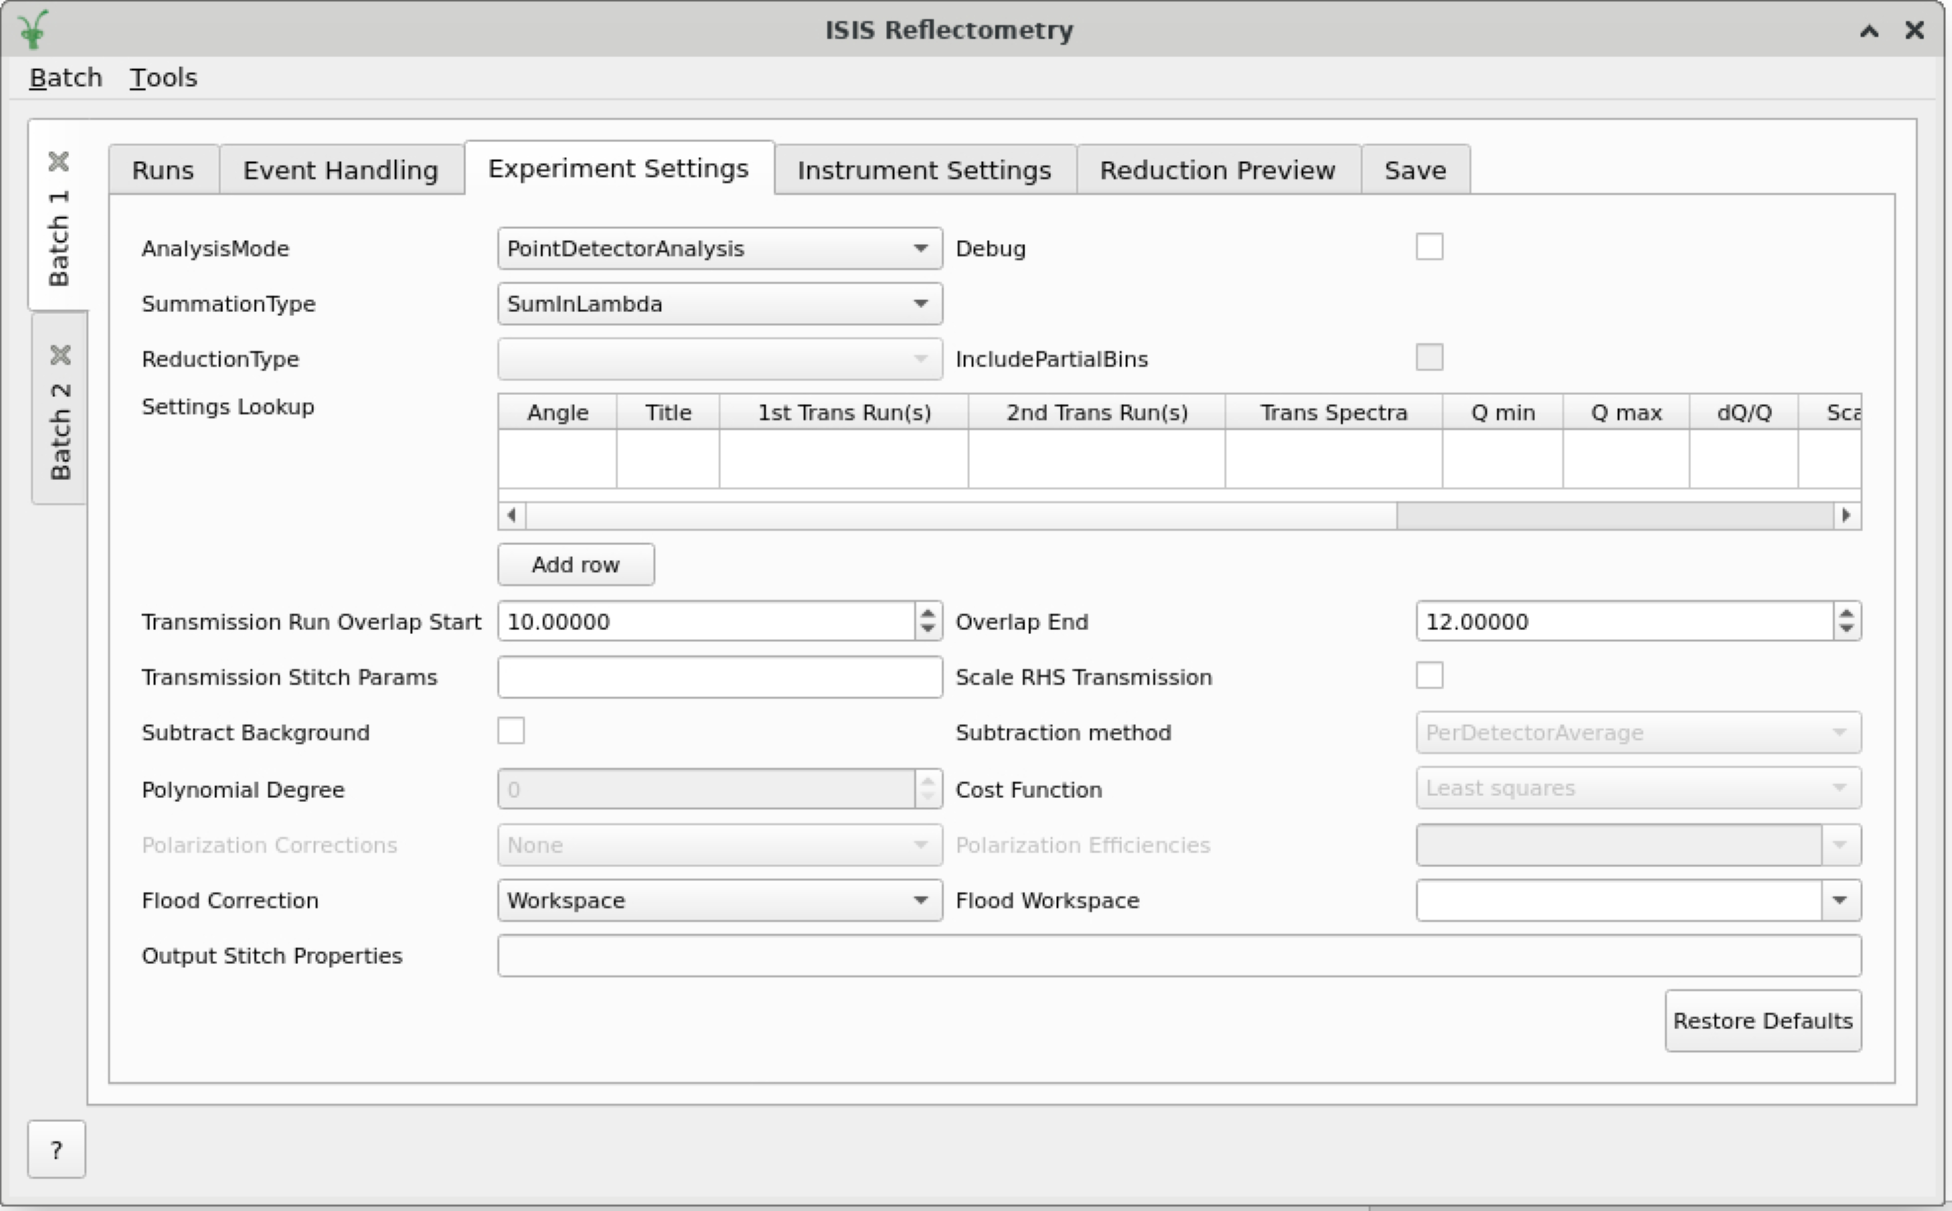
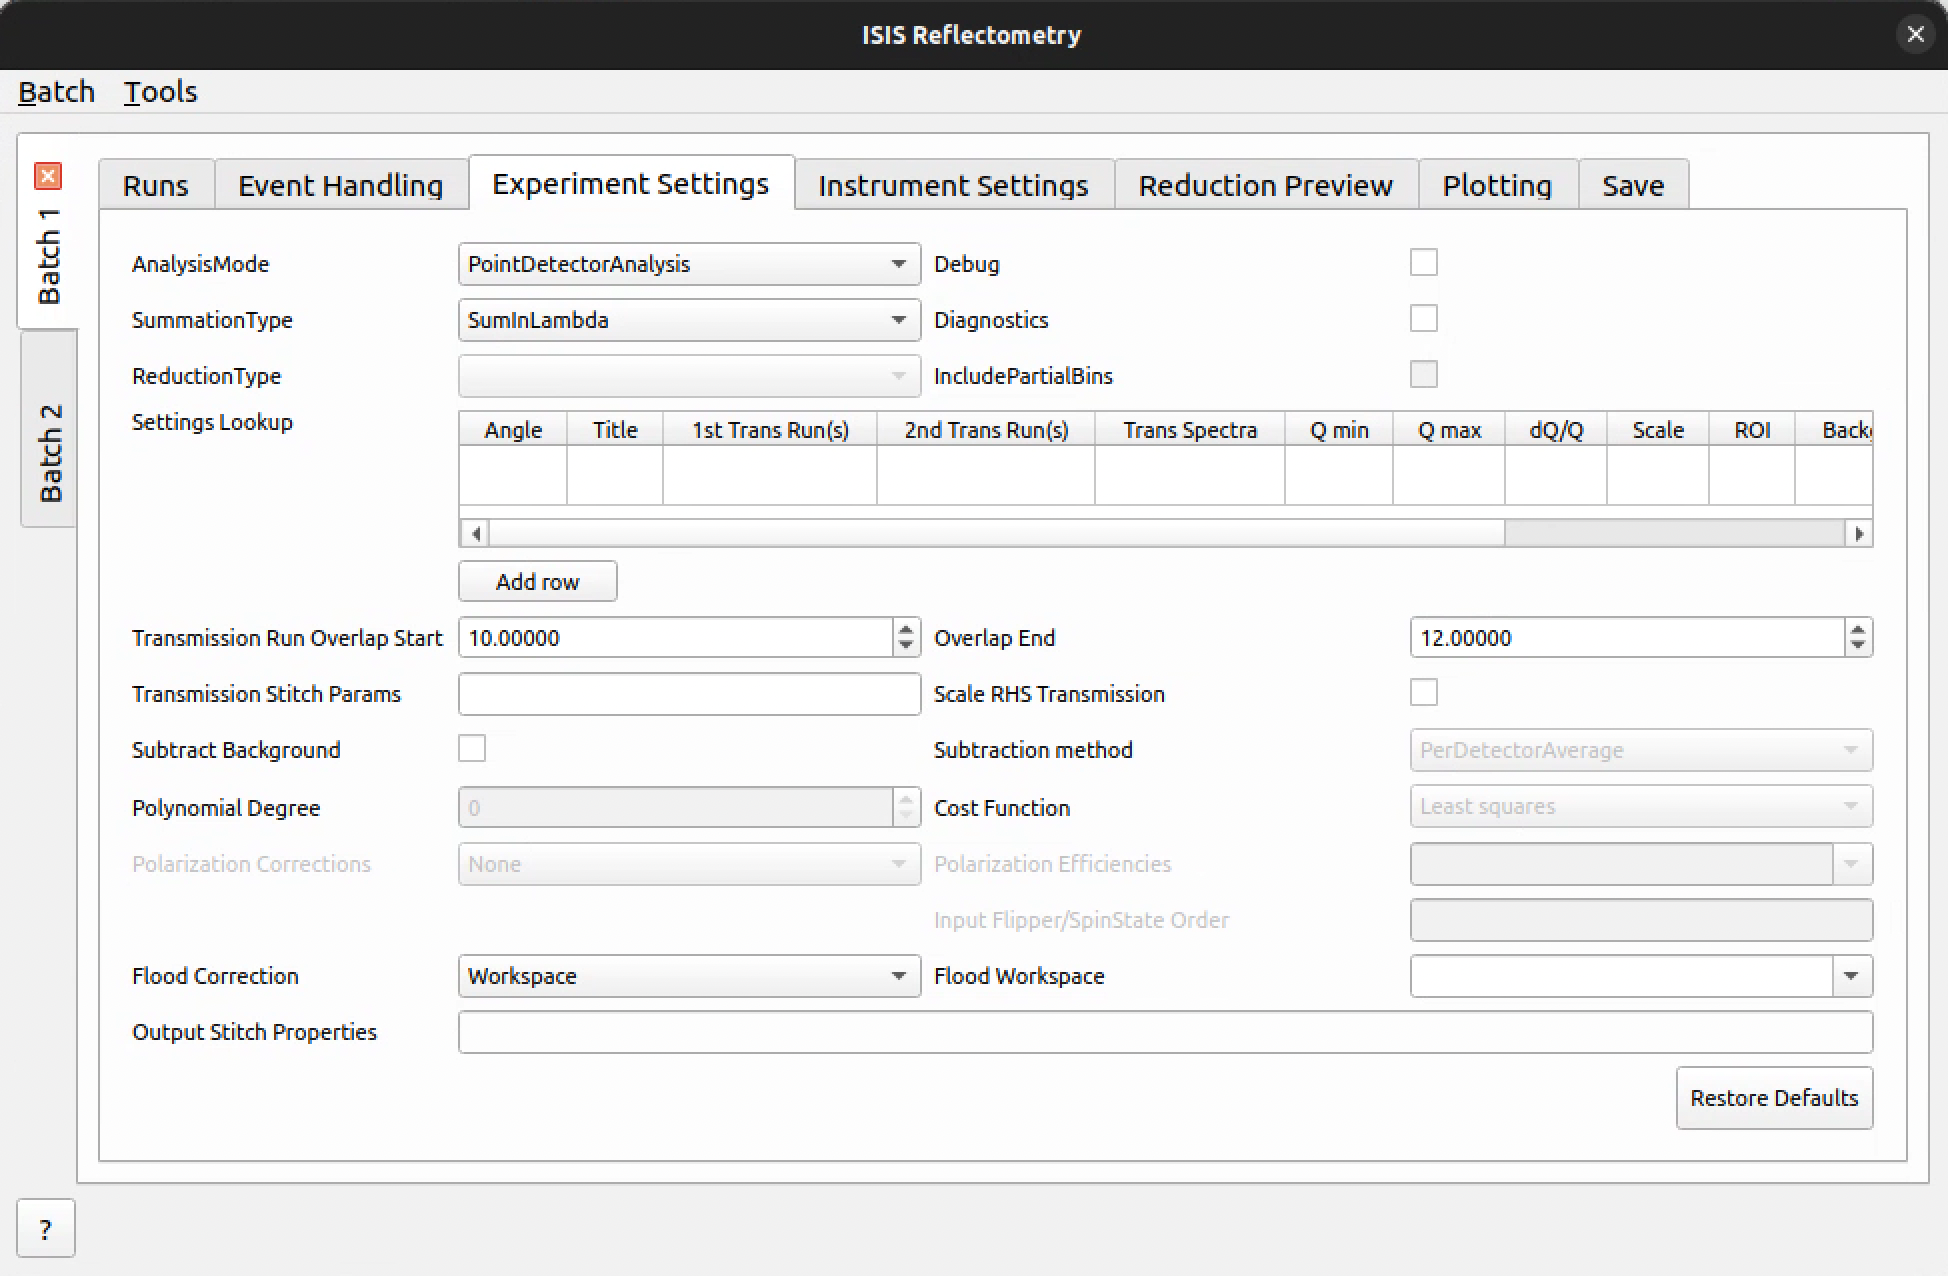
Update Reflectometry Manual Testing Instructions (#42356)

Changed region(s): [[0.0, 0.0, 1.0, 1.0]]

diff --git a/dev-docs/source/Testing/ReflectometryGUI/ReflectometryGUITests.rst b/dev-docs/source/Testing/ReflectometryGUI/ReflectometryGUITests.rst
@@ -97,16 +97,51 @@ with ``CRISP``, ``POLREF`` or ``OFFSPEC``.
 #. Back on the ``Experiment Settings`` tab, the ``Polarisation Corrections`` combo box should now be enabled and the
    ``Polarization Efficiencies`` combo box should be disabled.
 #. Select ``Parameter File`` from the ``Polarisation Corrections`` combo box. The ``Polarization Efficiencies`` combo
-   box should still be disabled.
-#. Switch to ``Workspace`` from the ``Polarisation Corrections`` combo box. The ``Fredrikze Input Spin State Order`` and
-   ``Polarization Efficiencies`` combo boxes should become enabled. The latter should show a list of all loaded
-   workspaces.
+   box should still be disabled. The ``Input Flipper/SpinState Order`` combo box should be enabled.
+#. Switch to ``Workspace`` from the ``Polarisation Corrections`` combo box. The ``Polarization Efficiencies`` combo box
+   should become enabled and show a list of all loaded workspaces.
 #. Switch to ``FilePath`` from the ``Polarisation Corrections`` combo box. ``Polarization Efficiencies`` should now
    appear as a line edit. It should appear red for invalid paths and white for valid paths on your system.
 #. Switch back to the ``ParameterFile`` setting from the ``Polarisation Corrections`` combo box.
 #. Back on the ``Runs`` tab, delete all rows in the table (this can be done by pressing ``Ctrl-A`` and then ``Delete``).
 #. Note that this will leave an empty row. In that row enter run number ``44956`` and angle ``0.4``.
 #. Check you can process the row and it turns green.
+
+Plotting Tab
+------------
+
+#. Using the output from the previous test, navigate to the ``Plotting`` tab.
+#. Select the ``IvsQ_binned_44956_1`` item and check that only ``Plot`` and ``Plot tiled vertically`` are enabled.
+#. Select the ``IvsQ_binned_44956`` item and check that only ``Add to existing plot`` is disabled.
+#. Click ``Plot``. It should produce four plots, one for each of the workspaces in the ``WorkspaceGroup``.
+
+   #. Click ``Plot over``: One plot with four lines.
+   #. Click ``Plot tiled``: One window with four plots on it.
+   #. Check ``Plot tiled vertically`` and click ``Plot tiled`` again: Single window with four plots, but in a vertical order.
+
+#. With some of the plots left open, make sure that the ``Add to existing plot`` checkbox is enabled while they exist and is
+   disabled once they are all closed.
+#. For the next three tests, ensure that a group item is selected.
+#. Change the ``Plot output type`` to ``Detector Map``:
+
+   - ``Plot over`` is disabled.
+   - All group and workspace items are enabled.
+   - X and Y axis controls are made visible.
+
+#. Change the ``Plot output type`` to ``Spin Asymmetry``:
+
+   - Only the binned group is enabled.
+   - Only the ``Plot`` button is enabled.
+
+#. Change the ``Plot output type`` to ``Alignment``:
+
+   - All three plot buttons are enabled.
+   - All group and workspace items are enabled.
+   - An X axis combobox is visible.
+
+.. HINT::
+   This is a tab with a lot of permutations of its various settings and so would benefit from a small amount of time
+   spent trying to break it beyond the instructions given here.
 
 Search by experiment
 --------------------
@@ -177,7 +212,7 @@ Save tab
 #. Select a workspace in the list that starts with ``IvsQ``.
 #. Type a valid path into the Save path textbox.
 #. Type something in the prefix field you'd like to use to identify the file. *The files are saved in the form [prefix][workspace][ext]*.
-#. In the File Format section, select ``Custom format (*.dat)``. Check that option ``Additional columns (includes Q resolution)`` is ticked but disabled, as it is not applicable.
+#. In the File Format section, select ``Custom format (*.dat)``. Check that option ``Additional columns`` is ticked but disabled, as it is not applicable.
 #. Untick ``Header`` and ``Q resolution`` and set the separator to ``Comma``.
 #. Click ``Save`` and open the file that should have been saved to the save directory you specified. It should contain 3 columns of numbers, separated by commas.
 #. Tick ``Q resolution`` and re-save. It should now contain 4 columns of numbers.
@@ -188,9 +223,9 @@ Save tab
    - Amongst other things this text should contain the logs you selected, e.g. ``nperiods : 1`` and ``run_end : 2011-10-21T13:32:03``.
 
 #. Try changing the separator to spaces or tabs and check that the 3 or 4 columns of numbers are separated using that separator.
-#. Change the dropdown to ``ORSO Ascii (*.ort)``. The ``Header`` checkbox, separators and parameter settings are not applicable so they should be greyed out. The ``Additional columns (includes Q resolution)`` checkbox should be enabled.
+#. Change the dropdown to ``ORSO Ascii (*.ort)``. The ``Header`` checkbox, separators and parameter settings are not applicable so they should be greyed out. The ``Additional columns`` checkbox should be enabled.
 #. Select a single ``IvsQ_binned`` workspace from the left list, e.g. ``IvsQ_binned_11934``, and click Save. Open the ``.ort`` file that should have been created in your specified save directory. You should get a header at the top starting with ``ORSO reflectivity data file``. There should be 8 columns of numbers with headings ``Qz``, ``R``, ``sR``, ``sQz``, ``lambda``, ``slambda``, ``incident theta`` and ``sincident theta``.
-#. Untick ``Additional columns (includes Q resolution)`` and re-save (the ``Q resolution`` checkbox should still be selected from the earlier steps). The file should now contain 4 columns of numbers with headings ``Qz``, ``R``, ``sR`` and ``sQz``.
+#. Untick ``Additional columns`` and re-save (the ``Q resolution`` checkbox should still be selected from the earlier steps). The file should now contain 4 columns of numbers with headings ``Qz``, ``R``, ``sR`` and ``sQz``.
 #. Untick ``Q resolution`` and re-save. The file should now contain 3 columns of numbers with headings ``Qz``, ``R``, ``sR``.
 #. Change the dropdown to ``ORSO Nexus (*.orb)``. The availability of the settings should be the same as they were for the ``ORSO Ascii (*.ort)`` format. Click Save and check that a file with extension ``.orb`` is saved out. This should be a Nexus file type, so will not be possible to view in a text editor. Use an HDF5 viewer to check that the contents of the file appear sensible.
 #. Change the dropdown to ``3 column (*.dat)``. All the settings should be greyed out as they are not applicable. Click Save to create the ``.dat`` file. You should get 3 columns of numbers separated by tabs (including a leading tab). At the top there is an integer indicating the number of lines in the data.
